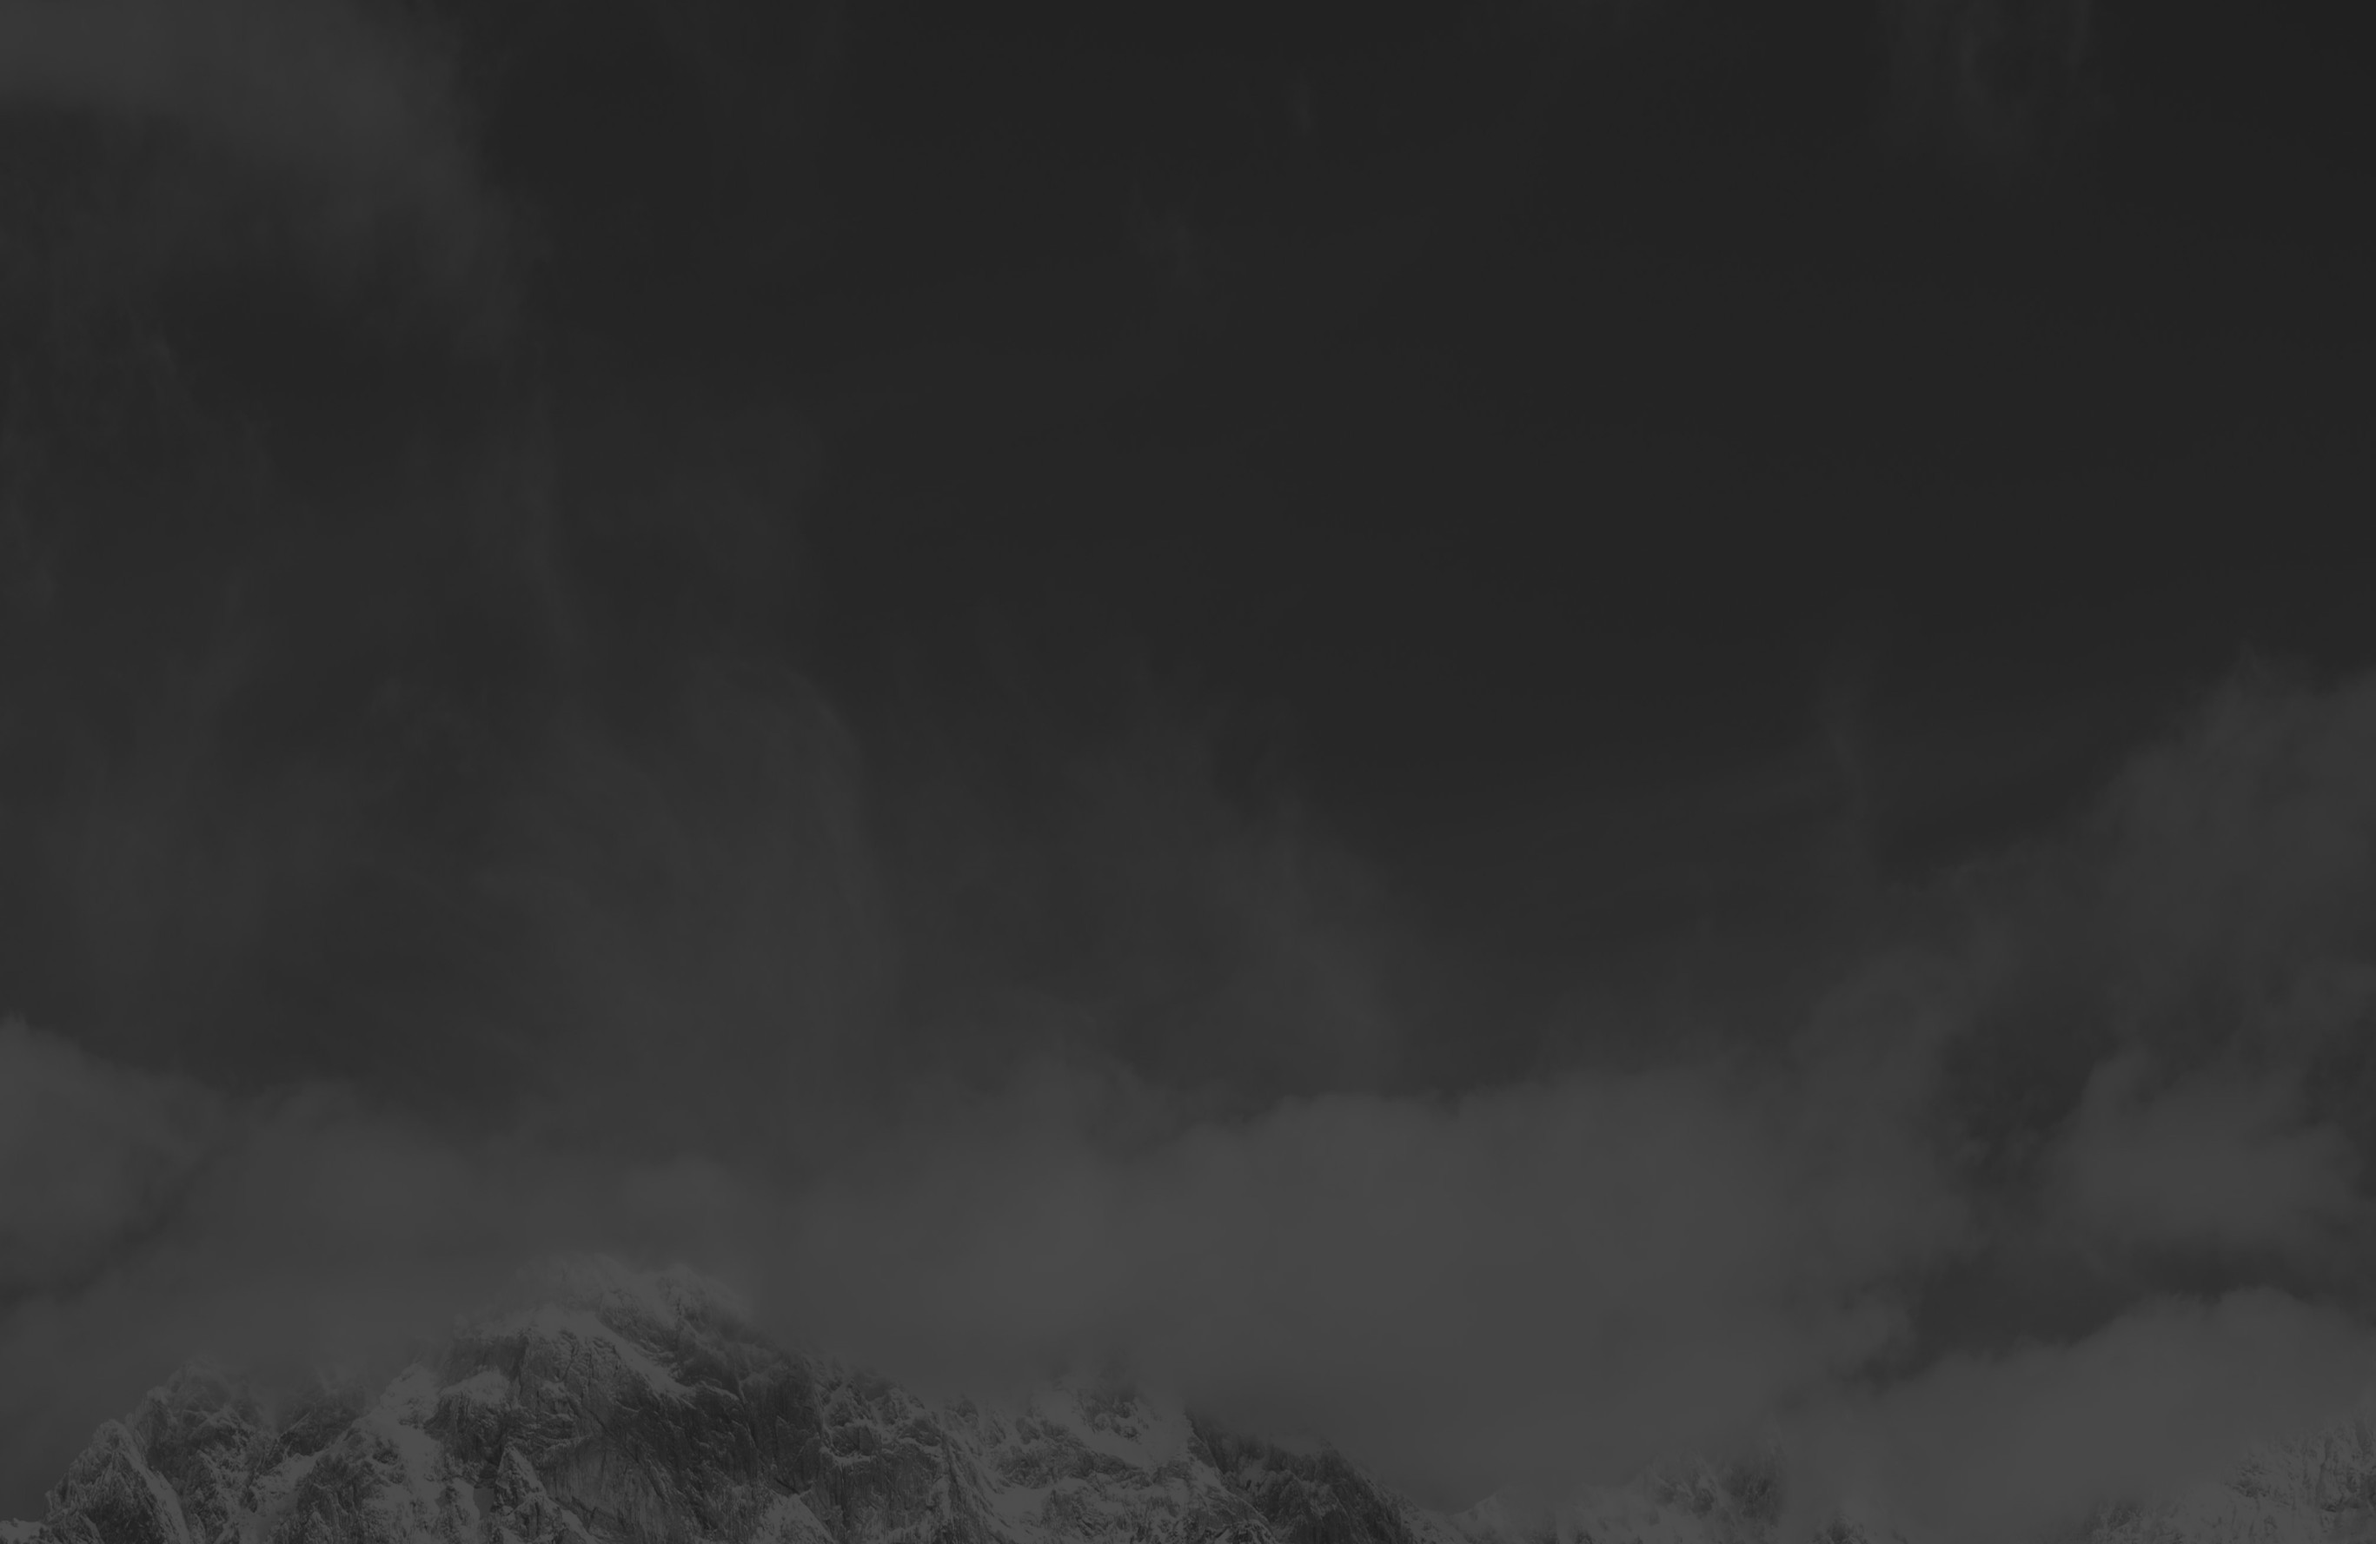
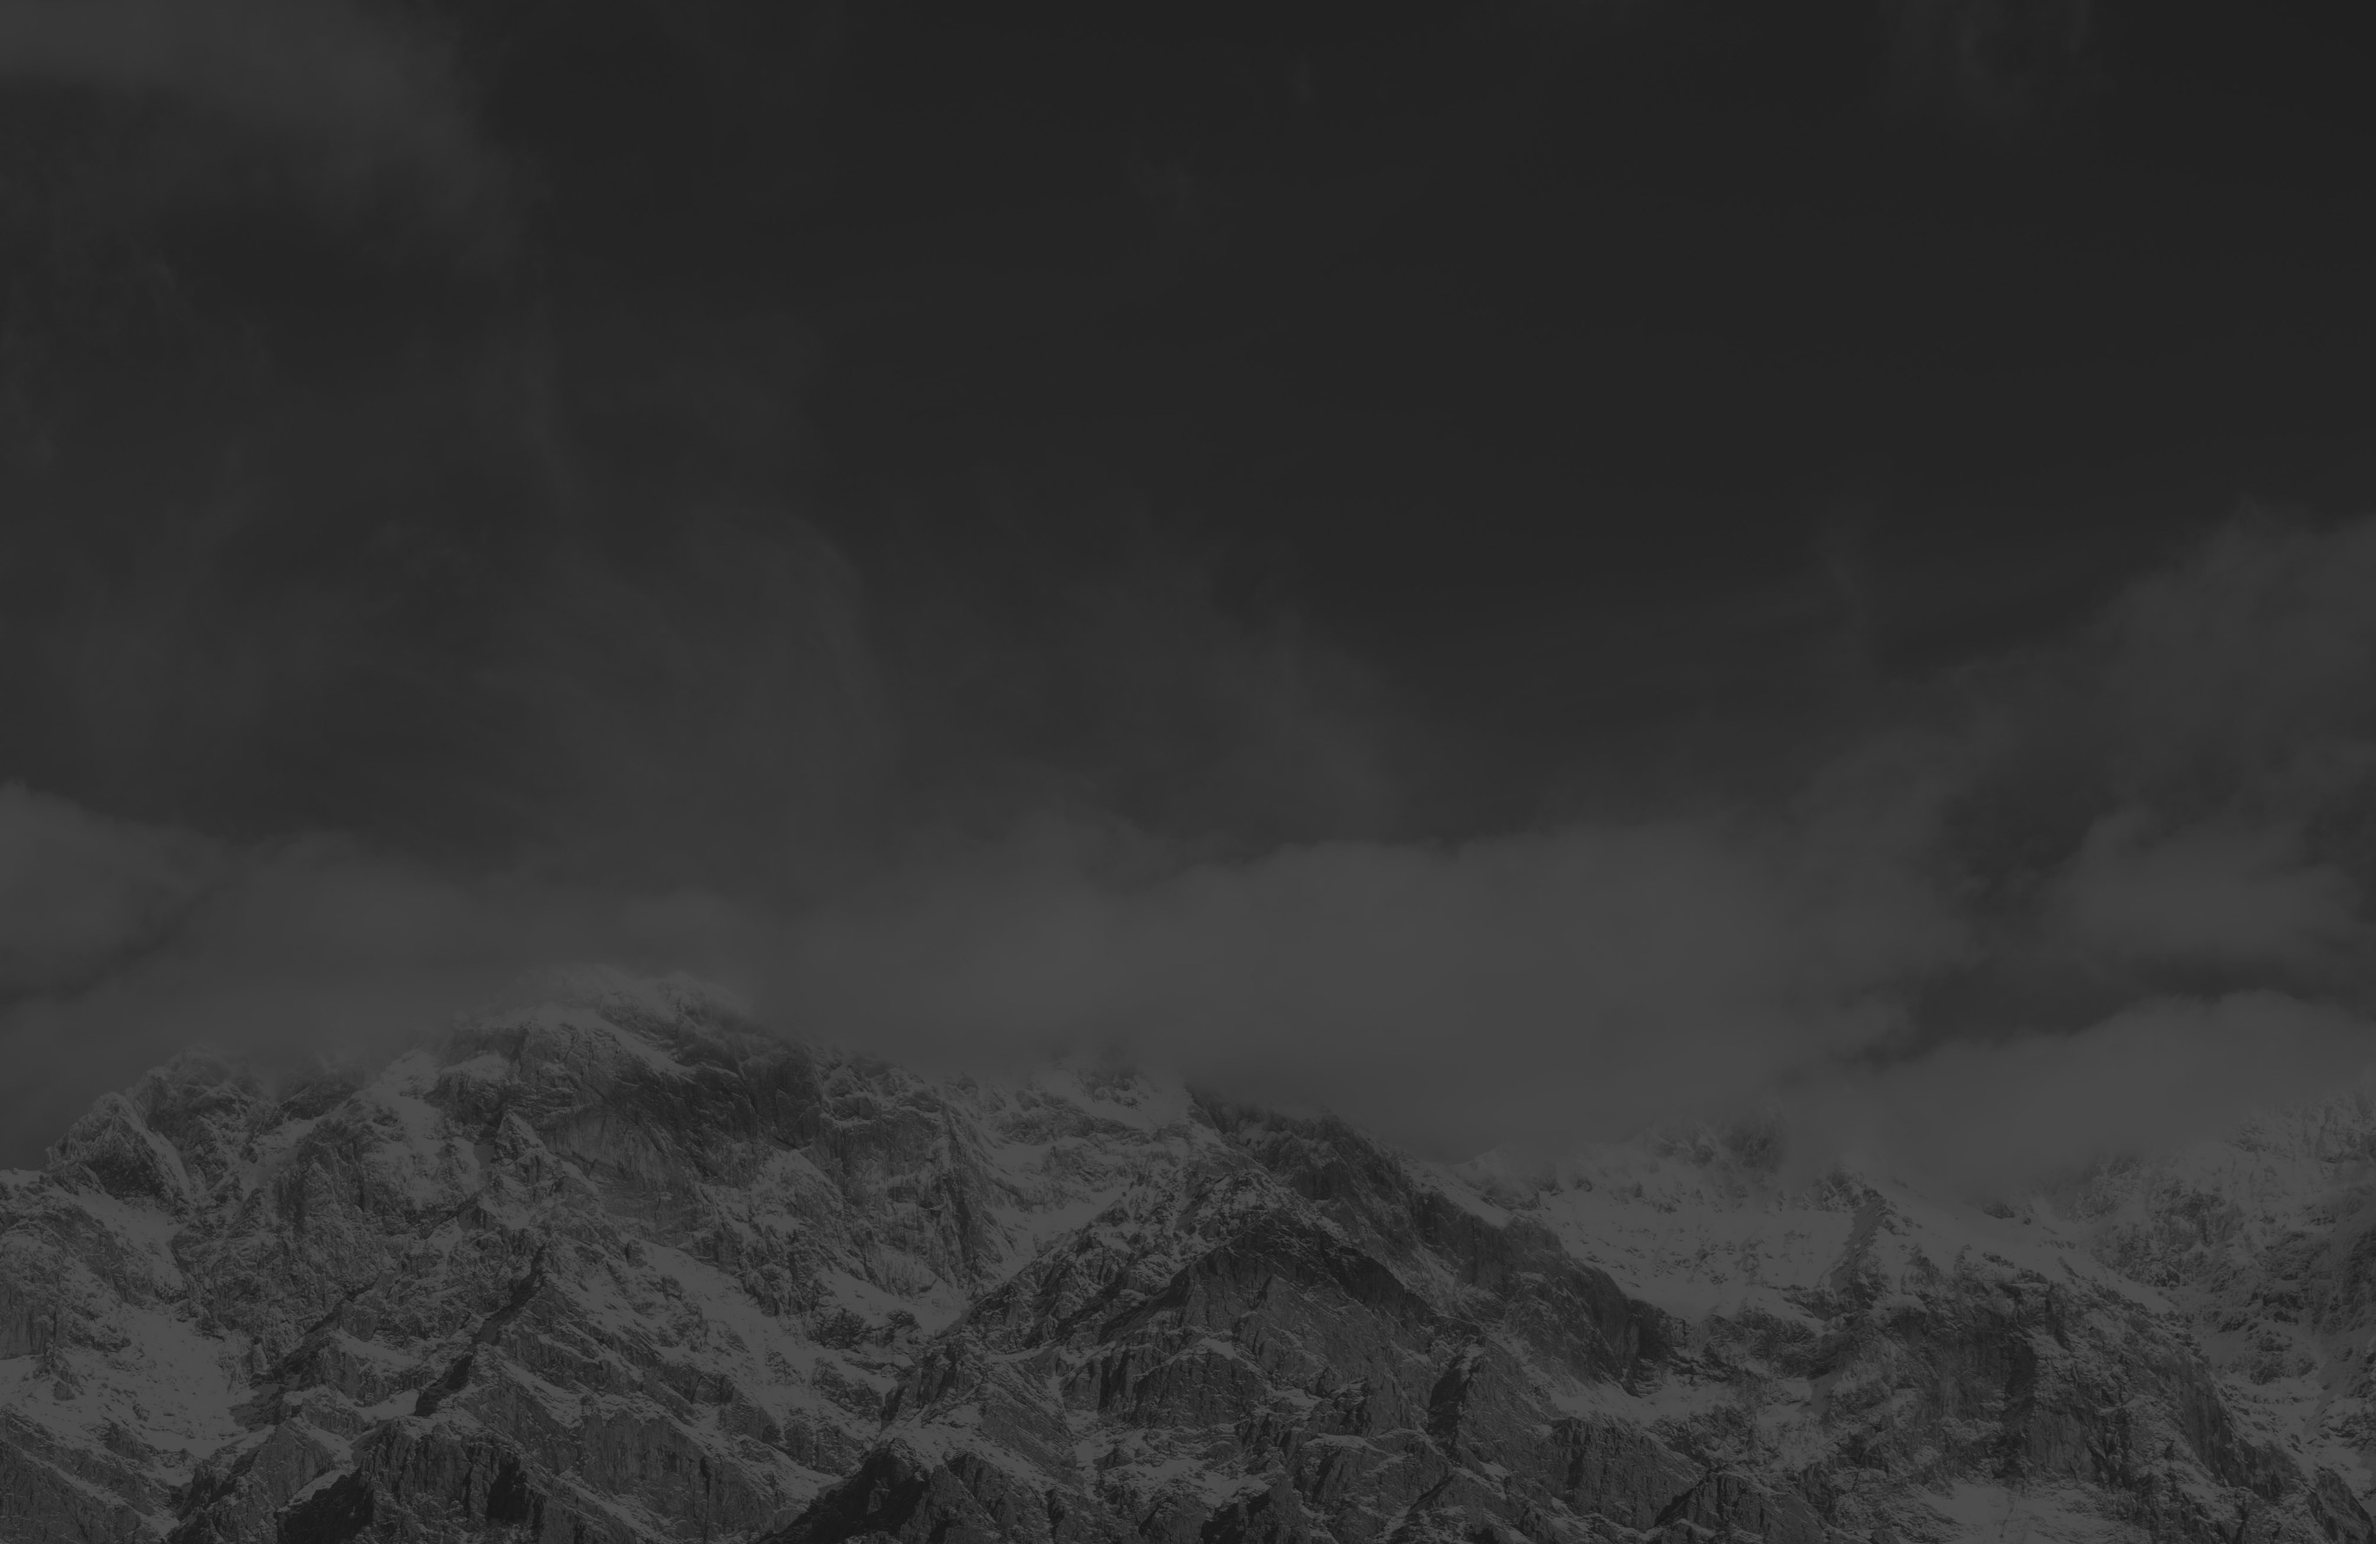
feat: update cursor styles for clickable elements and adjust movies link to target hero section

diff --git a/src/app/globals.css b/src/app/globals.css
@@ -39,6 +39,30 @@
     background: var(--ink);
     color: var(--cream);
   }
+
+  /* Anything clickable gets the hand cursor. Tailwind v4's Preflight dropped
+     the `button { cursor: pointer }` rule v3 shipped, which left every button
+     on the site (menu toggle, carousel arrows, filter chips, pager, newsletter
+     submit) on the default arrow while real links kept the hand. */
+  a[href],
+  button,
+  summary,
+  label[for],
+  [role="button"],
+  [role="tab"],
+  input[type="button"],
+  input[type="submit"],
+  input[type="reset"],
+  input[type="checkbox"],
+  input[type="radio"] {
+    cursor: pointer;
+  }
+
+  /* …except when it can't be clicked. */
+  button:disabled,
+  [aria-disabled="true"] {
+    cursor: default;
+  }
 }
 
 @layer components {

diff --git a/src/components/sections/MoviesMade.tsx b/src/components/sections/MoviesMade.tsx
@@ -99,7 +99,9 @@ export function MoviesMade() {
 
   return (
     <section
-      className="relative"
+      // Target of the hero's "Find movies / Made in Kurdistan" quick link.
+      id="movies-made-in-kurdistan"
+      className="relative scroll-mt-6"
       aria-roledescription="carousel"
       aria-label="Movies made in Kurdistan"
     >

diff --git a/src/lib/content.ts b/src/lib/content.ts
@@ -39,9 +39,10 @@ export const quickLinks = [
     featured: false,
   },
   {
+    // There is no movies page — the reel lives further down this same page.
     label: "Find movies",
     title: "Made in Kurdistan",
-    href: "/movies",
+    href: "#movies-made-in-kurdistan",
     featured: false,
   },
   {
